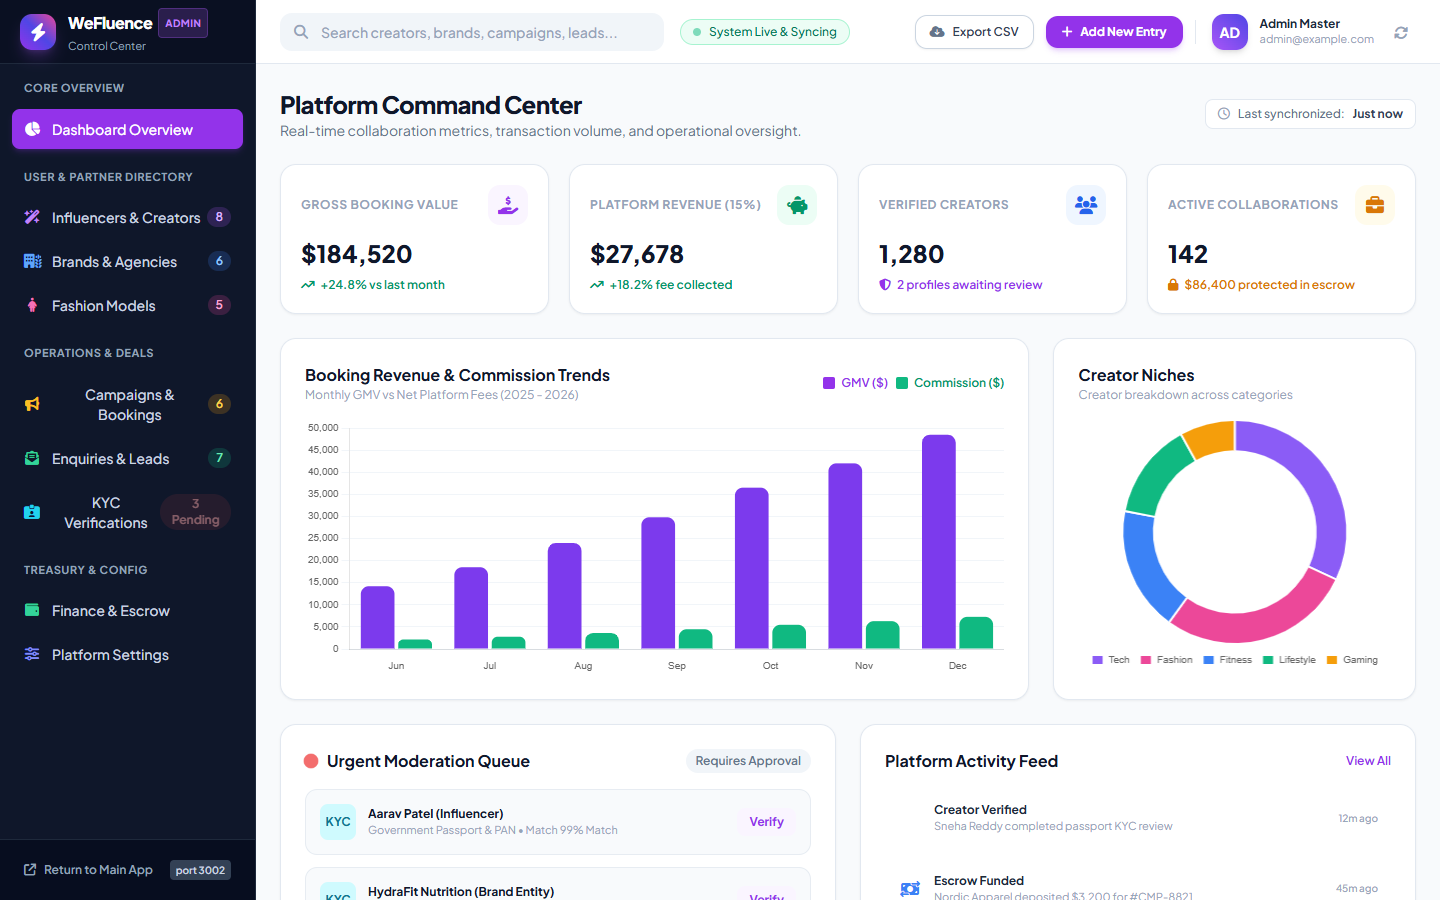
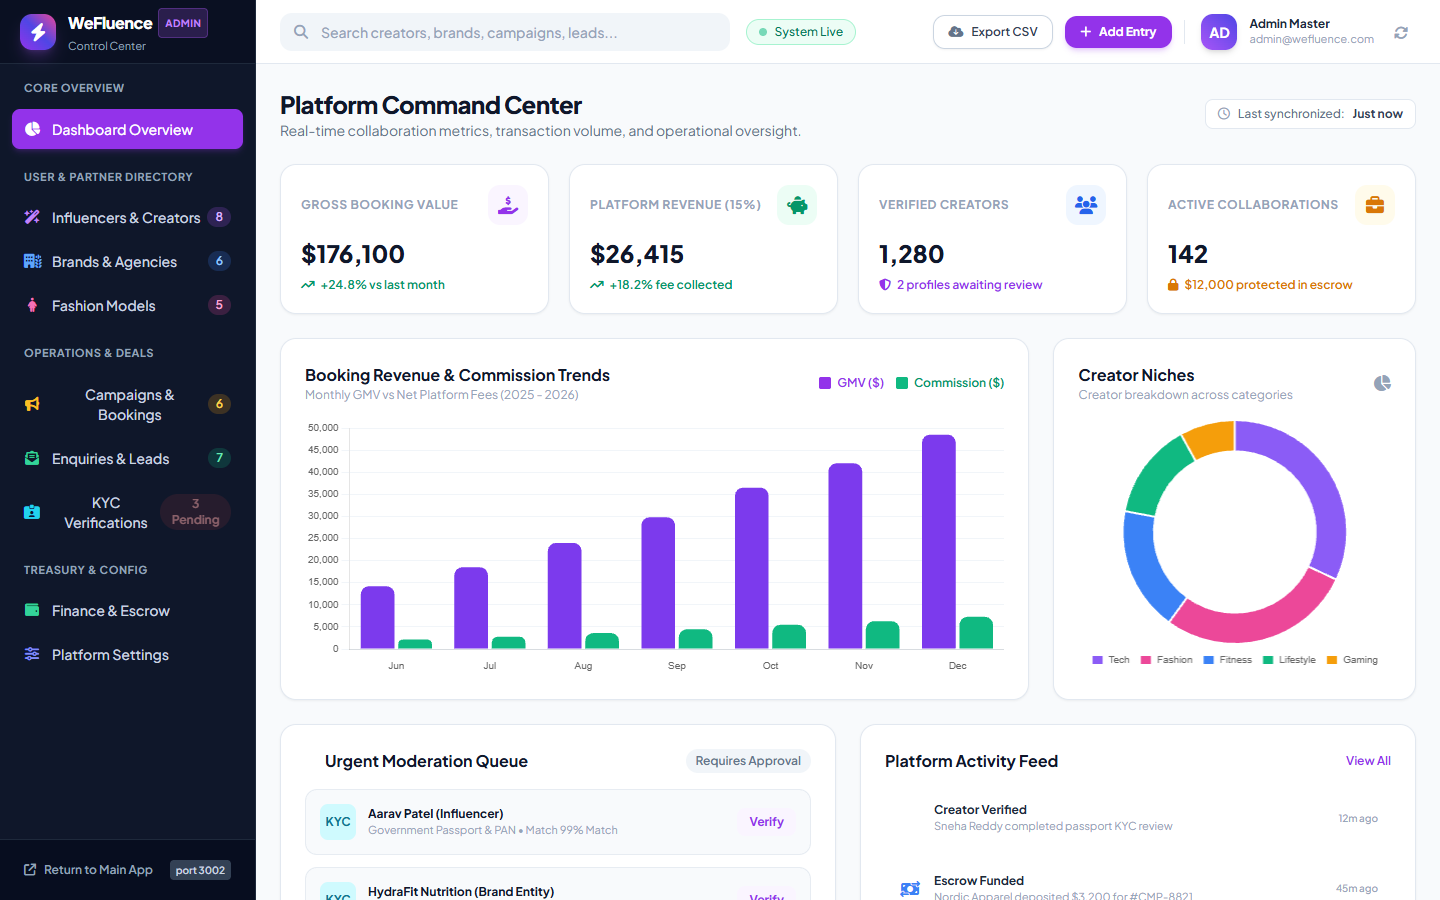
feat(wefluence): update showcase image, authentic branding, and Tomcat architecture specs

diff --git a/lib/data/projects.ts b/lib/data/projects.ts
@@ -109,41 +109,57 @@ export const projects: Project[] = [
   {
     slug: "wefluence",
     title: "Wefluence",
-    description: "A brand-influencer booking platform that streamlines collaboration between creators and marketing teams.",
-    role: "Frontend Developer",
+    description: "Premier enterprise multi-role collaboration portal connecting brands, fashion models, and social influencers with secure booking, direct enquiries, and administrative oversight.",
+    role: "Full Stack Java & Web Developer",
     bullets: [
-      "Developed influencer discovery interface with advanced filters and search",
-      "Built real-time messaging system for brand-creator communication",
-      "Created analytics dashboard for campaign performance tracking",
+      "Engineered an enterprise Java Servlet & JSP web application deployed on Apache Tomcat 9.0 with 14 relational MySQL tables",
+      "Built dedicated role workflows and onboarding pipelines for Brands, Influencers, and Fashion Models",
+      "Created dynamic Admin Operations Command Center with live Chart.js visualizations for lead volumes and active status toggles",
+      "Implemented multi-part file upload pipelines and secure virtual directories for portfolio media and KYC verification assets",
+      "Architected SHA-256 encrypted authentication sessions and access control guards across all admin routes",
     ],
-    tech: ["React.js", "Next.js", "Tailwind CSS", "Node.js", "MySQL", "Java"],
+    tech: ["Java Servlets", "Apache Tomcat 9.0", "MySQL", "JSP", "JavaScript", "HTML5/CSS3", "Chart.js", "Bootstrap"],
     featured: true,
-    outcome: "Reduced booking turnaround time by 60%",
-    theme: "Social Media",
-    colors: { primary: "#7c3aed", secondary: "#ec4899", accent: "#3b82f6" },
+    outcome: "Successfully launched production-ready influencer and model booking architecture with sub-second query execution",
+    theme: "Influencer & Model Booking Platform",
+    colors: { primary: "#0d0d0d", secondary: "#1e1e1e", accent: "#ffd700" },
     heroImage: "/screenshots/wefluence.png",
     heroAnimation: "floating-cards",
     features: [
-      "Brand Accounts",
-      "Influencer Discovery",
-      "Collaboration Requests",
-      "Portfolio Gallery",
-      "Analytics Dashboard",
+      "Multi-Stakeholder Role Portals (Brand, Influencer, Model)",
+      "Admin Operations Command Center",
+      "Real-time Lead & Enquiry Management",
+      "Active/Inactive Account Status Toggles",
+      "Secure Multi-Part Portfolio Uploads",
+      "Chart.js Visual Analytics Dashboard",
     ],
     problem:
-      "Brands struggled to find authentic influencers manually through social media, while influencers had no structured way to showcase portfolios and receive collaborations.",
+      "Multi-stakeholder creative casting (brands seeking models and influencers) often suffers from fragmented communications, unverified credentials, lack of centralized booking management, and opaque fee structures.",
     solution:
-      "A marketplace platform connecting brands with influencers featuring advanced filtering, profile management, and real-time messaging.",
-    dbTables: ["Users", "Influencers", "Brands", "Requests", "Categories"],
+      "An enterprise Java Servlet web platform powered by Apache Tomcat 9.0 and MySQL. Created distinct onboarding, profile validation, and booking pipelines for models, influencers, and brands, governed by a real-time administrative moderation dashboard.",
+    dbTables: [
+      "admin_users",
+      "brandprofiles",
+      "influencerprofiles",
+      "modelprofiles",
+      "influencerapprovaldetails",
+      "modelapprovaldetails",
+      "brandapprovaldetails",
+      "influencerbookings",
+      "modelbookings",
+      "enquiries",
+      "contact_messages",
+    ],
     skillsDemonstrated: [
-      "Java Servlet Development",
-      "MySQL",
-      "MVC Architecture",
-      "Session Management",
-      "Responsive UI",
+      "Java EE / Servlet Architecture",
+      "Apache Tomcat 9.0 Context Deployment",
+      "Relational MySQL Schema Design",
+      "JSP & JSTL Templating",
+      "SHA-256 Session Security",
+      "Data Visualizations with Chart.js",
     ],
     gallery: [
-      { id: 1, title: "Influencer Discovery Marketplace", aspect: "16/9", imageUrl: "/screenshots/wefluence.png", description: "Search interface with niche category filters, creator cards, and booking requests." },
+      { id: 1, title: "WeFluence Landing Portal", aspect: "16/9", imageUrl: "/screenshots/wefluence.png", description: "Luxury black-and-gold multi-stakeholder portal connecting brands, fashion models, and creators." },
       { id: 2, title: "Admin Command Center", aspect: "16/9", imageUrl: "/screenshots/wefluence-admin.png", description: "Master management console for influencer campaigns, verification approvals, and user accounts." },
       { id: 3, title: "Brand Campaign Workspace", aspect: "3/4", imageUrl: "https://images.unsplash.com/photo-1522071820081-009f0129c71c?q=80&w=800&auto=format&fit=crop", description: "Kanban board for tracking active influencer deliverables." },
       { id: 4, title: "Real-Time Chat", aspect: "1/1", imageUrl: "https://images.unsplash.com/photo-1516321318423-f06f85e504b3?q=80&w=800&auto=format&fit=crop", description: "Direct messaging portal with contract attachment support." },

diff --git a/app/projects/[slug]/BespokeLayouts.tsx b/app/projects/[slug]/BespokeLayouts.tsx
@@ -315,7 +315,7 @@ export function WefluenceDetail({ project, prevProject, nextProject }: BespokePr
         <header className="border-b border-white/10 py-4 px-4 sm:px-8 flex items-center justify-between bg-neutral-950/80 backdrop-blur-xl sticky top-0 z-40">
           <Link 
             href="/#work" 
-            className="inline-flex items-center gap-2 text-xs font-mono uppercase tracking-wider text-[#7c3aed] hover:text-white transition-colors"
+            className="inline-flex items-center gap-2 text-xs font-mono uppercase tracking-wider text-[#ffd700] hover:text-white transition-colors"
           >
             <ArrowLeft className="w-4 h-4" /> Back to Projects
           </Link>
@@ -326,7 +326,7 @@ export function WefluenceDetail({ project, prevProject, nextProject }: BespokePr
           
           {/* Top Hero block */}
           <div className="space-y-4 max-w-3xl">
-            <span className="text-xs font-bold uppercase tracking-widest px-3 py-1 rounded-full bg-[#7c3aed]/10 border border-[#7c3aed]/20 text-[#7c3aed] inline-block font-mono">
+            <span className="text-xs font-bold uppercase tracking-widest px-3 py-1 rounded-full bg-[#ffd700]/10 border border-[#ffd700]/20 text-[#ffd700] inline-block font-mono">
               {project.theme}
             </span>
             <h1 className="text-3xl sm:text-5xl font-extrabold text-white font-syne tracking-tight">
@@ -342,12 +342,27 @@ export function WefluenceDetail({ project, prevProject, nextProject }: BespokePr
                   href={project.liveDemo}
                   target="_blank"
                   rel="noopener noreferrer"
-                  className="inline-flex items-center gap-2 px-5 py-2.5 bg-[#7c3aed] text-white font-bold text-xs uppercase tracking-wider font-syne rounded-xl hover:bg-[#6d28d9] transition-all"
+                  className="inline-flex items-center gap-2 px-5 py-2.5 bg-[#ffd700] text-black font-bold text-xs uppercase tracking-wider font-syne rounded-xl hover:bg-[#e6c200] transition-all"
                 >
                   <span>Live App</span>
                   <ExternalLink size={14} />
                 </a>
               )}
+            </div>
+          </div>
+
+          {/* Hero Showcase Image */}
+          <div className="relative aspect-[16/10] w-full rounded-3xl overflow-hidden border border-white/10 shadow-2xl bg-neutral-950">
+            <img 
+              src={project.heroImage} 
+              alt={project.title}
+              className="w-full h-full object-cover"
+            />
+            <div className="absolute inset-0 bg-gradient-to-t from-neutral-950 via-transparent to-transparent opacity-60" />
+            <div className="absolute bottom-4 left-4 sm:bottom-6 sm:left-6 flex items-center gap-3">
+              <span className="px-3.5 py-1.5 rounded-full bg-black/80 backdrop-blur-md border border-white/15 text-[#ffd700] text-xs font-mono font-bold uppercase tracking-wider flex items-center gap-2">
+                <span className="w-2 h-2 rounded-full bg-[#ffd700] animate-pulse" /> Live Apache Tomcat 9.0 Platform
+              </span>
             </div>
           </div>
 
